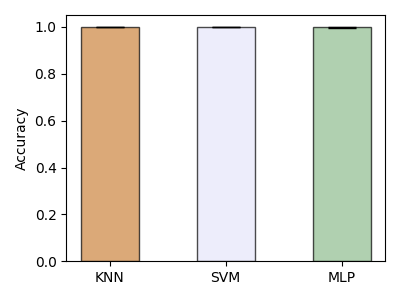
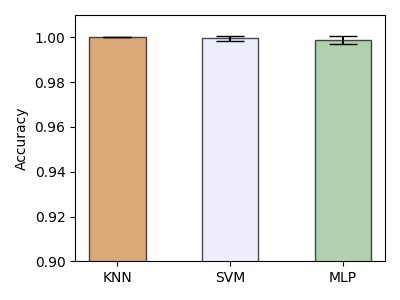
change range in fig1 0.9-1.01

diff --git a/yoga/models/build_features.py b/yoga/models/build_features.py
@@ -122,8 +122,8 @@ class FullBodyPoseEmbedder:
           landmarks - NumPy array with 3D landmarks of shape (N, 3).
 
         Result:
-          Numpy array with pose embedding of shape (M, 3) where `M` is the number of
-          pairwise distances.
+          Numpy array with pose embedding of shape (M, 3) where `M` is the
+          number of pairwise distances.
         """
         embedding = np.array([
             # One joint.
@@ -250,7 +250,9 @@ def load_pose_samples(pose_samples_folder,
         df = df[df.columns[~df.columns.astype(int).isin(col_removed)]]
         for row in df.values:
             assert len(row) == n_landmarks * n_dimensions + 1, f'Wrong' \
-                                                               f' number of values: {len(row)}'
+                                                               f' number of ' \
+                                                               f'values: ' \
+                                                               f'{len(row)}'
             landmarks = np.array(row[1:], np.float32).reshape(
                 [n_landmarks, n_dimensions])
             pose_samples.append(PoseSample(

diff --git a/yoga/models/analysis.py b/yoga/models/analysis.py
@@ -13,8 +13,8 @@ def plot_bar_parameter(mean_df: pd.DataFrame, i: int, ylabel: str):
             ecolor='k', capsize=10,
             alpha=0.7, edgecolor='k',
             color=colors)
-    if ylabel == 'Acuracy':
-        plt.ylim(0, 1.1)
+    if ylabel == 'Accuracy':
+        plt.ylim(0.9, 1.01)
     plt.ylabel(ylabel)
     plt.tight_layout()
     return fig
